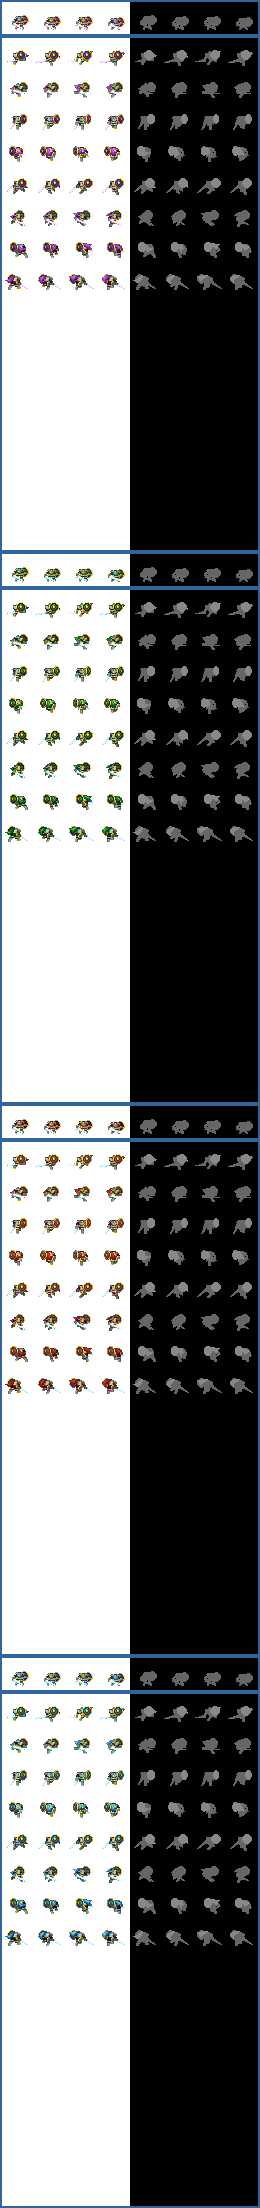
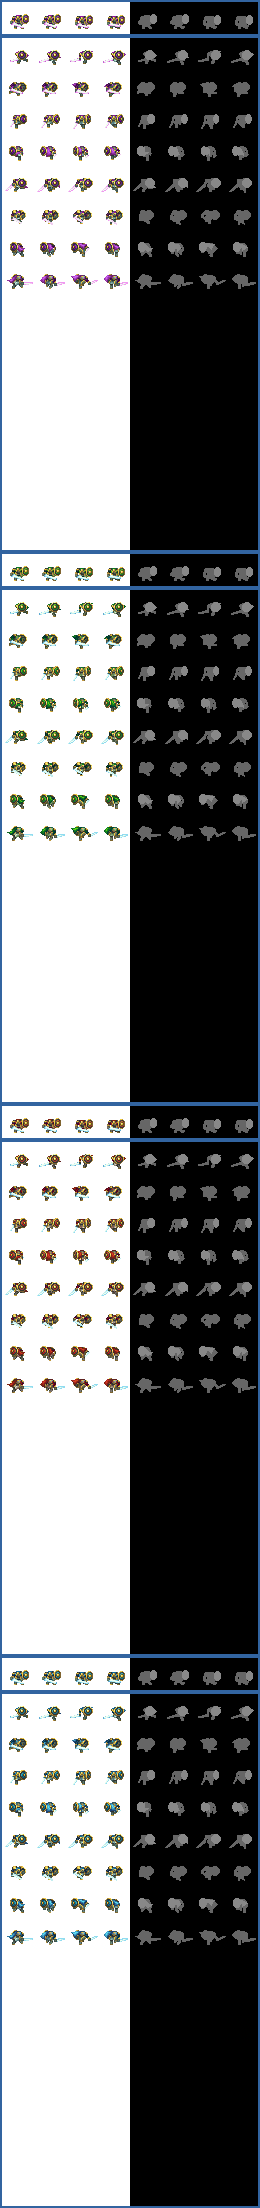
Fixed offsets again

diff --git a/splitter.py b/splitter.py
@@ -217,48 +217,15 @@ def main(headFile, bodyFile, size, name, offset=(0,0), alpha=True, outdir=OUTDIR
 
         paste(idleBlank, outImage, (0,yPos*32))
 
-        '''
-        #Put all movement images together
-        moveBlank = make_blank(*HEAD_MOVE_SIZE)
-        moves = sorted(list(set(
-            list(head[MOVE].keys()) + list(body[MOVE].keys())
-            )))
-
-        #Composite head and body
-        for key in moves:
-            if key in head[MOVE].keys():
-                paste(head[MOVE][key], moveBlank, (0,0))
-            if key in body[MOVE].keys():
-                paste(body[MOVE][key], moveBlank, (0,0))
-
-        paste(moveBlank, outImage, (yPos*128,32))
-        '''
-
         #Generate grayscale image based on blue
         yPos += 1
         if colorType == 'purple':
             idleGray = idleBlank.copy()
-            #moveGray = moveBlank.copy()
-
-            #Make gray
             idleGray = cv2.cvtColor(idleGray, cv2.COLOR_BGR2GRAY)
-            #moveGray = cv2.cvtColor(moveGray, cv2.COLOR_BGR2GRAY)
-
-            #Back to colorspace
             idleGray = cv2.cvtColor(idleGray, cv2.COLOR_GRAY2BGR)
-            #moveGray = cv2.cvtColor(moveGray, cv2.COLOR_GRAY2BGR)
-
-            #Add alpha channel
             idleGray = convert_alpha(idleGray)
-            #moveGray = convert_alpha(moveGray)
-
-            #Make black transparent
             replace_colors(idleGray, [0,0,0,255], [0,0,0,0])
-            #replace_colors(moveGray, [0,0,0,255], [0,0,0,0])
-
-            #Paste onto sheet
             paste(idleGray, outImage, (0,yPos*32))
-            #paste(moveGray, outImage, (yPos*128,32))
 
     path = fix_paths(os.path.join(outdir, name))
     cv2.imwrite(path + '/sheet.png', outImage)
@@ -267,6 +234,7 @@ def main(headFile, bodyFile, size, name, offset=(0,0), alpha=True, outdir=OUTDIR
 def make_blank(w,h,channels=4):
     #Makes a blank image with given size
     return np.zeros((h,w,channels), np.uint8)
+
 
 def remove_border(img, bw, bh):
     #Removes surrounding border from image. (In-place).
@@ -286,7 +254,6 @@ def replace_colors(img, color=None, replace=[0,0,0]):
 def paste(src, dest, offset):
     #Pastes source image onto destination image
     h,w = src.shape[0], src.shape[1]
-    
     x1,y1 = offset
     x2,y2 = x1+w, y1+h
 
@@ -295,6 +262,7 @@ def paste(src, dest, offset):
             m,n = x1+x, y1+y
             if src[y,x,3] != 0:
                 dest[n,m] = src[y,x]
+
     
 def process(fn, type, size, offset, alpha, outdir):
     #Processes a single color-layered image
@@ -307,17 +275,11 @@ def process(fn, type, size, offset, alpha, outdir):
         cropIdle = CROP[HEAD_IMG][IDLE][size]
         xStart, yStart = cropIdle[START]
         start = xStart+xOff, yStart+yOff
-        if size==SMALL:
-            start = start[0] + 2, start[1] - 1
-        else:
-            start = start[0] - 1, start[1] + 1
-            
         idle = crop(img, start, cropIdle[SIZE])
         idle = composite(idle, alpha)
         if alpha:
             for k in idle.keys():
                 replace_colors(idle[k],[0,0,0,255],[0,0,0,0])
-
 
         #Processing for head-formatted image (moving)
         cropMove = CROP[HEAD_IMG][MOVE][size]
@@ -330,6 +292,18 @@ def process(fn, type, size, offset, alpha, outdir):
                 replace_colors(move[k],[0,0,0,255],[0,0,0,0])
 
         #Fix image formatting if small size
+        if size==LARGE:
+            w,h = HEAD_IDLE_SIZE
+            for k in idle.keys():
+                newIdle = np.zeros((h,w,4), np.uint8)
+                for x in range(4):
+                    start = x*32,0
+                    size = 32,32
+                    sub = crop(idle[k], start, size)
+                    dest = x*32, -1 if x==3 else -2
+                    paste(sub, newIdle, dest)
+                idle[k] = newIdle
+                
         if size==SMALL:
             #Idle image
             w,h = HEAD_IDLE_SIZE
@@ -339,7 +313,7 @@ def process(fn, type, size, offset, alpha, outdir):
                     start = x*16,0
                     size  = 16,16
                     sub   = crop(idle[k], start, size)
-                    dest  = x*32-24, 0
+                    dest  = x*32-24 - 2, 3 + (-1 if x==3 else -2)
                     paste(sub, newIdle, dest)
                 idle[k] = newIdle
 

diff --git a/test.py b/test.py
@@ -19,3 +19,19 @@ splitter.main(
     'large',
     'camilla-hero',
     )
+
+
+splitter.main(
+    'inputs/odin.png',
+    'inputs/malig-knight-m.png',
+    'small',
+    'odin-malig-knight',
+    )
+
+
+splitter.main(
+    'inputs/odin.png',
+    'inputs/hero.png',
+    'large',
+    'odin-hero',
+    )
